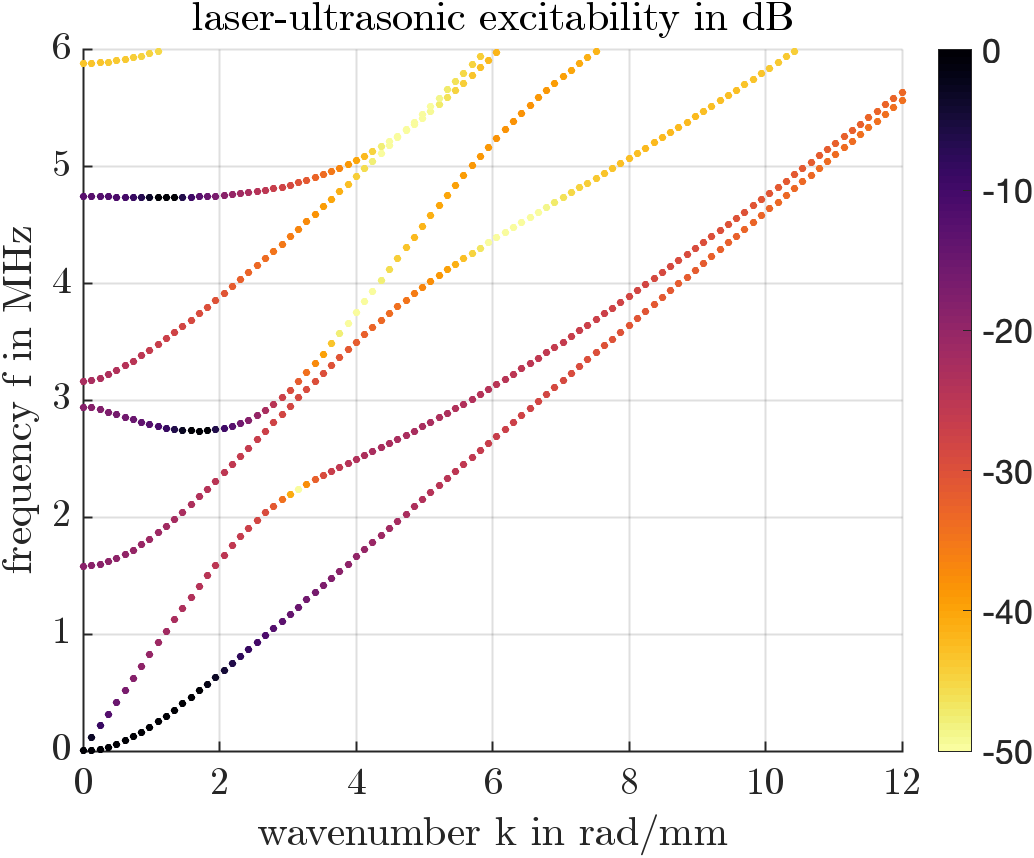
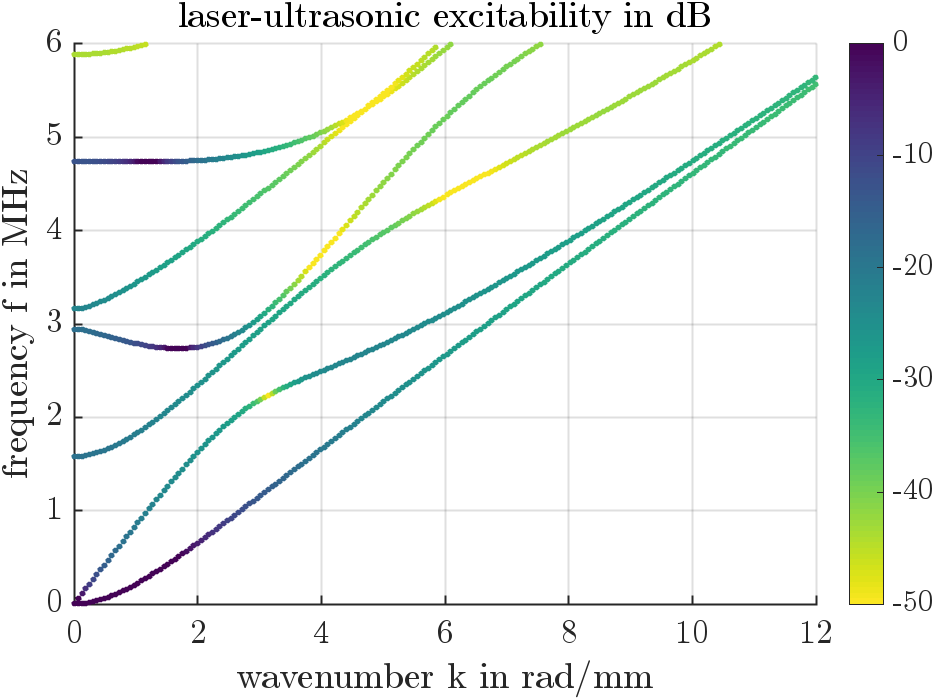
readme.md: updated LUS example

diff --git a/readme.md b/readme.md
@@ -2,15 +2,15 @@
 
 **Dispersion curves and computation with guided elastic waves (GEWs) in MATLAB.**
 
-`GEWtool` provides extremely fast and reliable computation of guided elastodynamic waves (GEWs) in plates and cylinders. It is simple to use and yet provides full access to the computational results as well as underlying code. You are welcome to contribute to this open source project.
+`GEWtool` provides extremely fast and reliable computation of guided elastodynamic waves (GEWs) in plates and cylinders. It is simple to use and yet provides full access to the computational results as well as the underlying code. You are welcome to contribute to this open source project.
 
 **Features**:
 
-- Layered plates and cylinders
-- Does not miss solutions, super fast 
+- Multi-layered plates and cylinders
+- Finds all solutions, super fast 
+- General anisotropy, dissipation
 - Compute real frequencies, complex wavenumbers or ZGV points
 - Choose polarization (Lamb/SH/coupled) and symmetry (S/A)
-- Materials: general anisotropy, dissipation
 
 Code repository: [<img src="https://www.svgrepo.com/show/35001/github.svg" alt="GitHub" width="27px" />](https://github.com/dakiefer/GEWtool) [https://github.com/dakiefer/GEWtool](https://github.com/dakiefer/GEWtool)
 
@@ -22,7 +22,7 @@ h = 1e-3;                        % thickness in m
 N = 12;                          % number of nodes (dictates accuracy)
 k = linspace(1e-2, 12, 100)/h;   % wavenumbers to solve for
 plate = Plate(mat, h, N);        % create waveguide description 
-gews = plate.LambSA; tic;        % choose sym/anti-sym Lamb waves (assembles matrices)
+gews = plate.LambSA; tic;        % choose S+A Lamb waves (assembles matrices)
 dat = computeW(gews, k, 4); toc; % solve and save 4 modes (argument optional)
 plot(dat(1).k, dat(1).w/2/pi, 'b'); hold on;        % plot symmetric
 plot(dat(2).k, dat(2).w/2/pi, 'r'); ylim([0, 6e6]); % plot anti-symmetric
@@ -37,10 +37,13 @@ output:
 Proceed by inspecting the laser-ultrasonic excitability of the waves computed above (product of tangential and normal displacements ux·uy):
 
 ```matlab
+k = linspace(1e-2, 12, 200)/h;          % use more wavenumbers
+gew = plate.Lamb;                       % choose all Lamb waves
+dat = computeW(gew, k, 7);              % compute
 exc = excitabilityLUS(gew, dat, 'top'); % ux*uy at top surface (value of 1 at 100x median)
 exc = 20*log10(exc);                    % in decibel
 scatter(dat.k(:)/1e3, dat.w(:)/2/pi/1e6, 15, exc(:), 'filled'), ylim([0, 6]);
-colormap(flipud(colormap)); cb = colorbar; clim([-50, 0]);
+colormap(flipud(colormap)); cb = colorbar; caxis([-50, 0]);
 xlabel('wavenumber k in rad/mm'), ylabel('frequency f in MHz')
 title('laser-ultrasonic excitability in dB')
 ```
